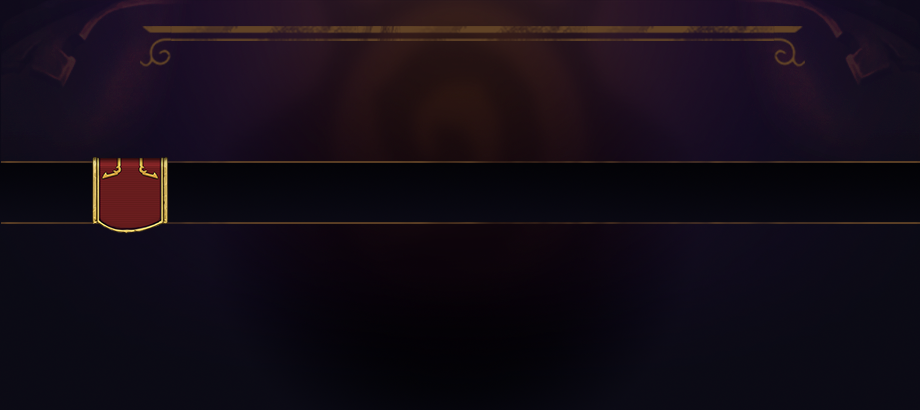
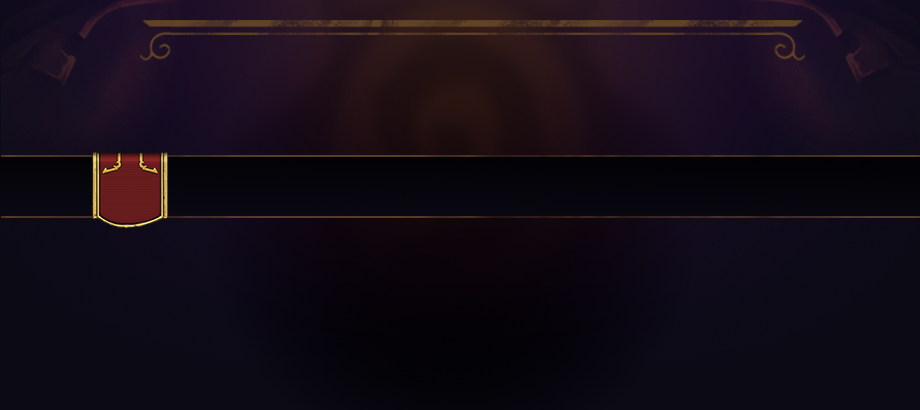
Final Tune

Changed region(s): [[0.1522, 0.0293, 0.8826, 0.1756], [0.0, 0.3512, 1.0, 0.439], [0.0, 0.5268, 1.0, 0.5854]]

diff --git a/FinalBoardSummaryOverlay.cs b/FinalBoardSummaryOverlay.cs
@@ -20,7 +20,7 @@ namespace FinalStatsPlugin
         private const double PanelHeight = 410;
         private const double PanelTop = 85;
         private const double PanelLeft = 307;
-        private const double MinionSize = 134; //130 //Taille des Minions
+        private const double MinionSize = 134; //Taille des Minions
         private const string PluginDisplayName =
             "Battlegrounds Final Stats";
 
@@ -97,13 +97,6 @@ namespace FinalStatsPlugin
             FrameworkElement boardArea = CreateBoardArea();
             Border headerBar = new Border
             {
-                Background = CreateFrozenBrush(
-                    Color.FromArgb(210, 20, 22, 26)
-                ),
-                BorderBrush = CreateFrozenBrush(
-                    Color.FromArgb(62, 255, 255, 255)
-                ),
-                BorderThickness = new Thickness(1),
                 Padding = new Thickness(16, 4, 16, 4),
                 RenderTransform = new TranslateTransform(0, -30),
                 Child = header,
@@ -125,9 +118,6 @@ namespace FinalStatsPlugin
                 Width = PanelWidth,
                 Height = PanelHeight,
                 Background = CreatePanelBackground(),
-                //Background = CreateFrozenBrush(
-                //    Color.FromArgb(250, 8, 9, 11)
-                //),
                 BorderBrush = CreateFrozenBrush(
                     Color.FromArgb(70, 255, 255, 255)
                 ),
@@ -324,8 +314,8 @@ namespace FinalStatsPlugin
 
             _heroPortrait = new CardImage
             {
-                Width = 190, //200
-                Height = 268, //282
+                Width = 190,
+                Height = 268,
                 HorizontalAlignment = HorizontalAlignment.Center,
                 VerticalAlignment = VerticalAlignment.Center,
                 IsHitTestVisible = false
@@ -435,16 +425,10 @@ namespace FinalStatsPlugin
                     )
                 }
             );
-            //boardArea.RowDefinitions.Add(
-            //    new RowDefinition
-            //    {
-            //        Height = GridLength.Auto
-            //    }
-            //);
 
             Grid footer = new Grid
             {
-                RenderTransform = new TranslateTransform(0, 5),
+                RenderTransform = new TranslateTransform(0, 7),
                 IsHitTestVisible = false
             };
 
@@ -482,11 +466,9 @@ namespace FinalStatsPlugin
             footer.Children.Add(_playerNameValue);
             footer.Children.Add(_pluginNameValue);
 
-            Panel.SetZIndex(_board, 10); //add
-            Panel.SetZIndex(footer, 20); //add
+            Panel.SetZIndex(_board, 10);
+            Panel.SetZIndex(footer, 20);
 
-            //Grid.SetRow(_board, 0);
-            //Grid.SetRow(footer, 1);
             boardArea.Children.Add(_board);
             boardArea.Children.Add(footer);
             return boardArea;
@@ -770,10 +752,6 @@ namespace FinalStatsPlugin
                         PixelFormats.Pbgra32
                     );
 
-                // Rendering the panel directly also applies its Canvas
-                // position. The content then lands outside the fixed-size
-                // bitmap and produces a fully transparent PNG. A VisualBrush
-                // renders the panel in local coordinates.
                 DrawingVisual localVisual = new DrawingVisual();
 
                 using (
@@ -1280,8 +1258,6 @@ namespace FinalStatsPlugin
             }
             catch
             {
-                // Fond noir de secours si l'image est absente
-                // ou si son chemin est incorrect.
                 return CreateFrozenBrush(
                     Color.FromArgb(250, 8, 9, 11)
                 );
